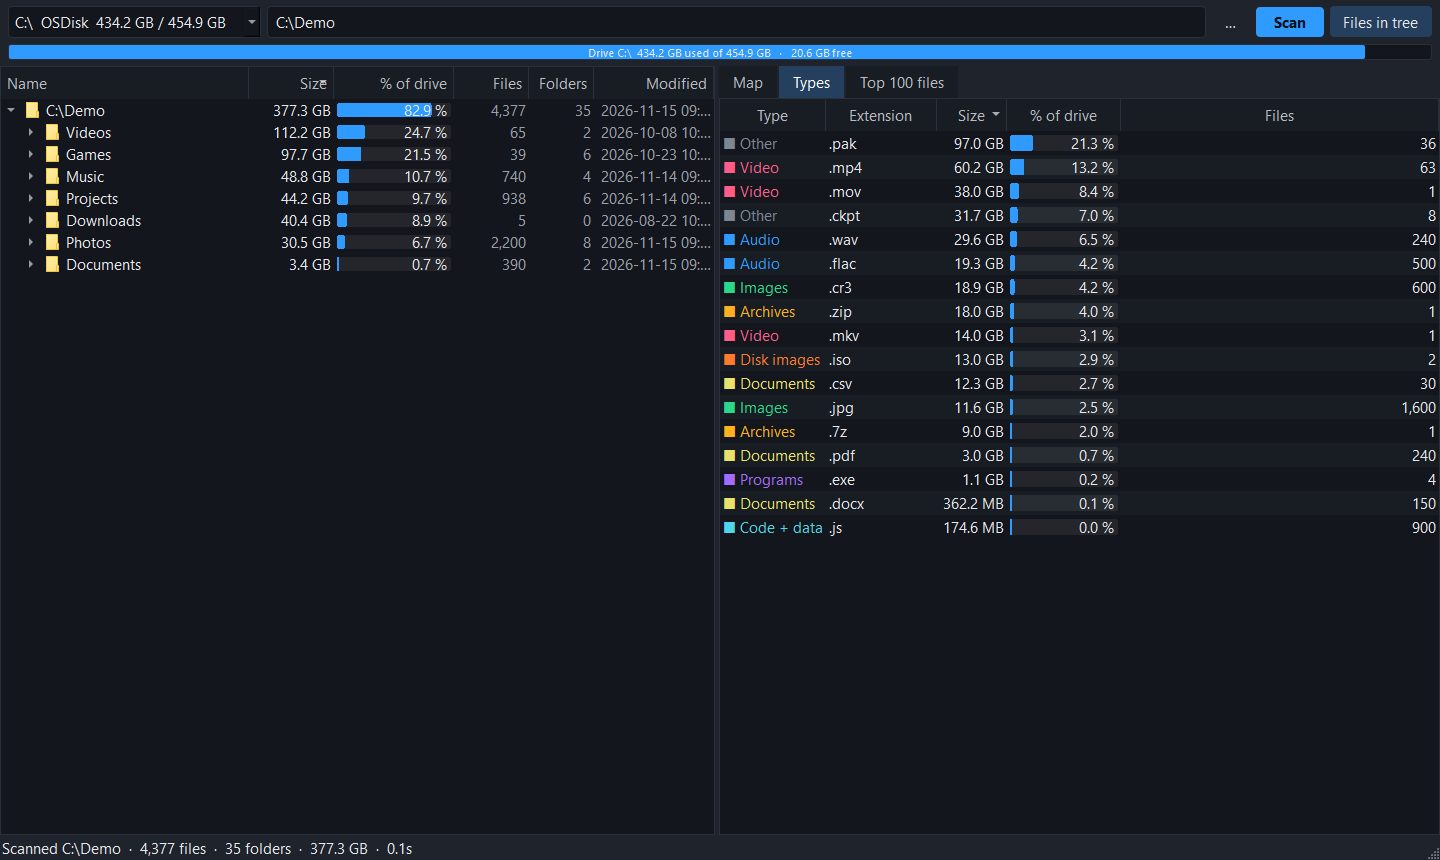
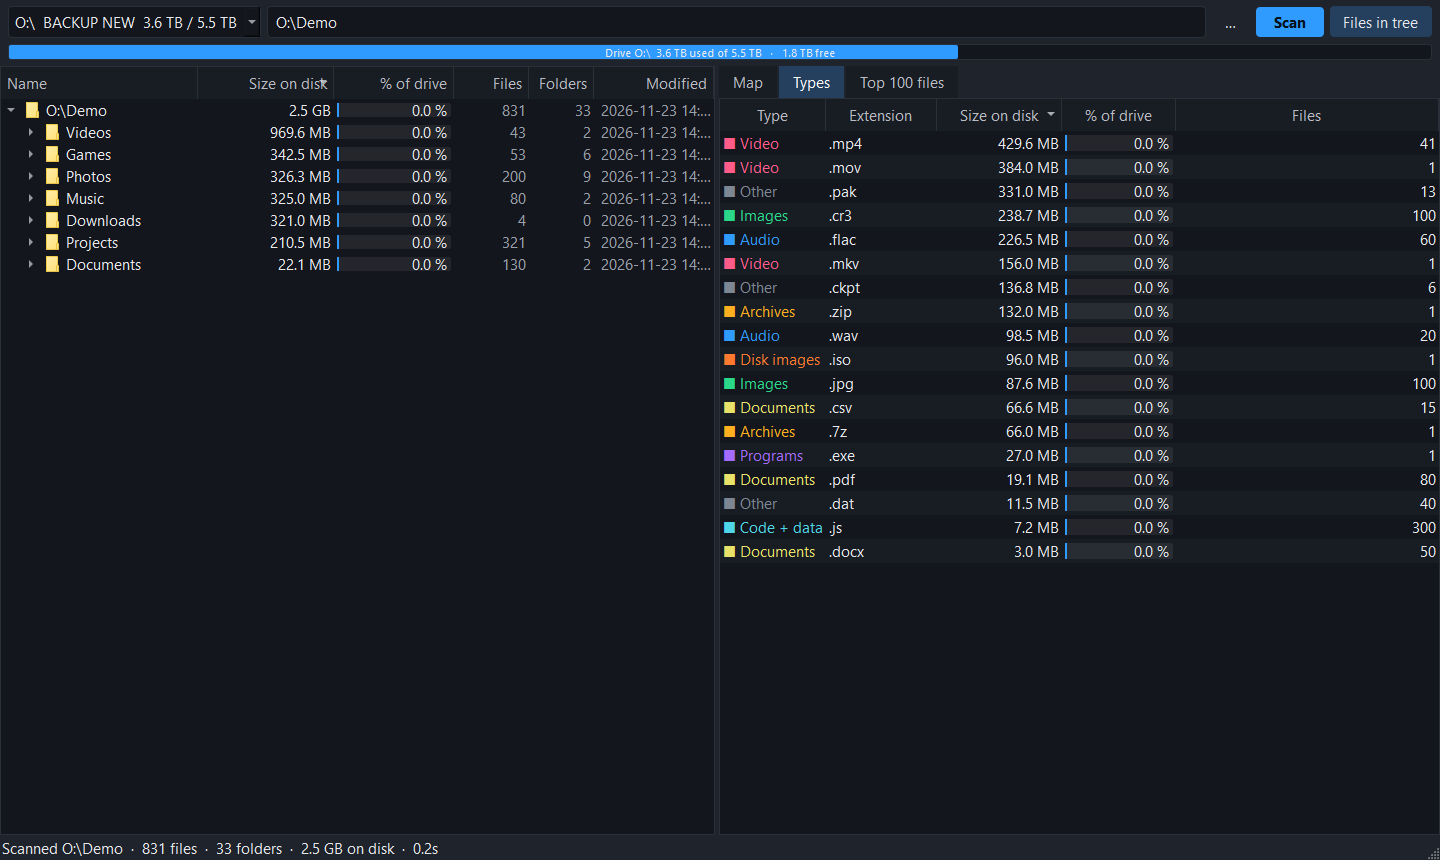
README screenshots of real files; the README explains size on disk
The old screenshots were of a folder of 4,377 sparse placeholder files that
take nothing on disk but showed 377 GB, which only worked because Bigfoot
added up lengths. They are retaken of a folder of 831 real files (2.5 GB), each
taking exactly the size shown.

- tools/make_demo.py builds that folder (random bytes, real sizes, no sparse
  files); tools/screenshots.py takes the three screenshots without showing a
  window, with settings in a temporary .ini.
- README: a section on what size on disk means (sparse, compressed, cloud
  placeholders, hard links) and why the Recycle Bin check still goes by
  length; the "Later" item for hard links and allocated size is done.

diff --git a/tools/make_demo.py b/tools/make_demo.py
@@ -1,0 +1,95 @@
+"""Builds the demo folder the README screenshots are taken of.
+
+Every file is real: it holds random bytes and takes exactly the size Bigfoot shows for it. Nothing is sparse and
+nothing is a placeholder, so the screenshots claim nothing the files don't take. The folder holds about 2.4 GB at
+the default scale (0.6); --scale 1 makes about 4 GB. Needs that much free space on the drive.
+
+    python tools\\make_demo.py D:\\BigfootDemo            build it
+    python tools\\make_demo.py D:\\BigfootDemo --scale 1  bigger
+"""
+import argparse
+import os
+import random
+import time
+
+MB = 1 << 20
+
+# folder -> {subfolder or file name: size in MB, or a dict, or (count, MB each, name pattern)}
+LAYOUT = {
+    "Videos": {
+        "Project reel 4K.mov": 640, "Drone footage Iceland.mp4": 360, "Concert multicam.mkv": 260,
+        "Family 2024.mp4": 120,
+        "Phone clips": (36, 5, "clip_{:03d}.mp4"),
+        "Screen recordings": {"tutorial_final.mp4": 24, "bug_report.mp4": 18, "standup.mp4": 14},
+    },
+    "Games": {
+        "Open World RPG": {"data": (8, 48, "pak{:02d}.pak")},
+        "Racing Sim": {"data": (5, 36, "track{:02d}.pak")},
+        "Indie Platformer": {"levels": (40, 0.5, "level{:02d}.dat")},
+    },
+    "Music": {
+        "Library": (60, 6, "track_{:03d}.flac"),
+        "Album sessions": (20, 8, "take_{:02d}.wav"),
+    },
+    "Photos": {
+        "2022": {"RAW": (25, 4, "IMG_{:04d}.cr3")}, "2023": {"RAW": (25, 4, "IMG_{:04d}.cr3")},
+        "2024": {"RAW": (25, 4, "IMG_{:04d}.cr3")}, "2025": {"RAW": (25, 4, "IMG_{:04d}.cr3")},
+        "Exports": (100, 1.5, "export_{:03d}.jpg"),
+    },
+    "Projects": {
+        "ml-model": {"checkpoints": (6, 40, "epoch_{:04d}.ckpt"), "data": (15, 8, "shard_{:02d}.csv")},
+        "website": {"src": (300, 0.04, "module_{:03d}.js")},
+    },
+    "Downloads": {
+        "old-backup.zip": 220, "dataset.7z": 110, "ubuntu-24.04.iso": 160, "installer.exe": 45,
+    },
+    "Documents": {
+        "Taxes": (80, 0.4, "scan_{:04d}.pdf"), "Letters": (50, 0.1, "letter_{:03d}.docx"),
+    },
+}
+
+
+def write_random(path, size, rnd):
+    os.makedirs(os.path.dirname(path), exist_ok=True)
+    left = size
+    with open(path, "wb") as f:
+        while left > 0:
+            n = min(4 * MB, left)
+            f.write(os.urandom(n))
+            left -= n
+    t = time.time() - rnd.randint(30, 900) * 86400  # spread the dates over a couple of years
+    os.utime(path, (t, t))
+
+
+def build(folder, spec, scale, rnd):
+    total = 0
+    for name, v in spec.items():
+        p = os.path.join(folder, name)
+        if isinstance(v, dict):
+            total += build(p, v, scale, rnd)
+        elif isinstance(v, tuple):
+            count, mb, pattern = v
+            for i in range(count):
+                size = max(1024, int(mb * MB * scale * rnd.uniform(0.7, 1.3)))
+                write_random(os.path.join(p, pattern.format(i)), size, rnd)
+                total += size
+        else:
+            size = max(1024, int(v * MB * scale))
+            write_random(p, size, rnd)
+            total += size
+    return total
+
+
+def main():
+    ap = argparse.ArgumentParser(description=__doc__, formatter_class=argparse.RawDescriptionHelpFormatter)
+    ap.add_argument("folder", help="where to build it (must not exist yet)")
+    ap.add_argument("--scale", type=float, default=0.6)
+    a = ap.parse_args()
+    if os.path.exists(a.folder):
+        raise SystemExit(f"{a.folder} already exists: choose a new folder")
+    total = build(a.folder, LAYOUT, a.scale, random.Random(7))
+    print(f"{a.folder}: {total / MB:,.0f} MB in real files")
+
+
+if __name__ == "__main__":
+    main()

diff --git a/tools/screenshots.py b/tools/screenshots.py
@@ -1,0 +1,61 @@
+"""Takes the README screenshots (docs\\map.png, types.png, top.png) of a folder made by tools\\make_demo.py.
+
+No window appears on screen (Qt lays it out and paints it without showing it) and the mouse and keyboard aren't
+used. Bigfoot's settings go to a temporary .ini file, never the registry.
+
+    python tools\\screenshots.py D:\\BigfootDemo
+"""
+import os
+import sys
+import tempfile
+import time
+
+ROOT = os.path.abspath(os.path.join(os.path.dirname(__file__), ".."))
+sys.path.insert(0, ROOT)
+
+from PySide6.QtCore import QSettings, Qt  # noqa: E402
+from PySide6.QtWidgets import QApplication  # noqa: E402
+
+import bigfoot as bf  # noqa: E402
+
+
+def pump(app, seconds):
+    end = time.time() + seconds
+    while time.time() < end:
+        app.processEvents()
+        time.sleep(0.01)
+
+
+def main():
+    if len(sys.argv) != 2 or not os.path.isdir(sys.argv[1]):
+        raise SystemExit(__doc__)
+    demo = os.path.abspath(sys.argv[1])
+    ini = os.path.join(tempfile.mkdtemp(prefix="bigfoot-shots-"), "bigfoot.ini")
+    bf.QSettings = lambda *a, **k: QSettings(ini, QSettings.IniFormat)
+    app = QApplication([])
+    app.setApplicationName(bf.APP)
+    bf.apply_theme(app)
+    w = bf.Window()
+    w.setAttribute(Qt.WA_DontShowOnScreen, True)
+    w.resize(1440, 860)
+    w.show()
+    w.path.setText(demo)
+    w.scan()
+    for _ in range(600):
+        pump(app, 0.1)
+        if w.scanner.t1 and w.status.text().startswith("Scanned"):
+            break
+    else:
+        raise SystemExit("the scan didn't finish")
+    pump(app, 0.5)
+    out = os.path.join(ROOT, "docs")
+    for tab, name in ((0, "map"), (1, "types"), (2, "top")):
+        w.tabs.setCurrentIndex(tab)
+        pump(app, 0.4)
+        w.grab().save(os.path.join(out, f"{name}.png"))
+        print("wrote", os.path.join(out, f"{name}.png"))
+    print(w.status.text())
+
+
+if __name__ == "__main__":
+    main()

diff --git a/README.md b/README.md
@@ -31,7 +31,7 @@ The app isn't code-signed yet, so Windows may show "Windows protected your PC": 
 
 ## What it does
 - **Fast scan** of any drive, folder or network share: multi-threaded, live progress, and the tree fills in while it scans
-- **Biggest-first tree:** size, % of drive bar, files, folders, newest modified date. Click any column to sort.
+- **Biggest-first tree:** size on disk, % of drive bar, files, folders, newest modified date. Click any column to sort.
 - **Map:** a squarified treemap of the selected folder, colored by file type. Click to find it in the tree, double-click a folder to zoom in, right-click or Up to zoom out.
 - **Types:** space by extension and category (video, audio, images, archives, disk images, programs, documents, code)
 - **Top 100 files** under the selected folder
@@ -47,6 +47,15 @@ The app isn't code-signed yet, so Windows may show "Windows protected your PC": 
 | Backspace (on map) | Zoom out |
 
 Folders Windows won't let you read are counted as "access denied" in the status bar; run as administrator to include them.
+
+## Sizes are what the files take on disk
+Bigfoot ranks and totals the space a file occupies on the drive, not its length, so a folder's size is what you get back by deleting it and a drive's total never goes past what Windows says is used:
+- **Sparse files** (VM disks, databases, test placeholders) count what they hold. A 400 GB sparse file that holds nothing counts 0.
+- **Compressed files** (NTFS compression, Windows "compact OS") count their compressed size.
+- **Cloud placeholders** (OneDrive "online-only" files) count 0 and are never opened, so a scan can't make them download.
+- **Hard links** (the same file under several names, as in WinSxS) count once. The first name by path takes the size; the other names are listed with 0.
+
+The columns say "Size on disk". The one place Bigfoot goes by a file's length is the Recycle Bin check below, because that is what Windows compares with the bin's size. Telling hard links apart takes one attribute lookup per file (never a read), which costs some scan time on a drive with millions of files.
 
 ## The part worth reading: delete means recycle
 A disk cleaner's worst bug is deleting something for good. Qt's `QFile.moveToTrash` (like the shell call underneath it) will quietly delete a file permanently and still report success when the Recycle Bin can't take it. Bigfoot checks before it sends anything, and refuses with a reason instead:
@@ -75,7 +84,7 @@ python -m venv .venv
 winget install JRSoftware.InnoSetup   # installer compiler
 .\build.ps1   # -> dist\BigfootSetup-<ver>.exe, dist\Bigfoot-<ver>-portable-win64.zip
 ```
-`Bigfoot.bat` runs it from source. `tests\sandbox\run-tests.ps1` runs the full suite in a fresh Windows Sandbox.
+`Bigfoot.bat` runs it from source. `tests\sandbox\run-tests.ps1` runs the full suite in a fresh Windows Sandbox. The screenshots above are of a folder of real files (about 2.5 GB, each taking exactly what Bigfoot shows): `tools\make_demo.py <folder>` builds it and `tools\screenshots.py <folder>` takes them.
 Settings live in the registry (`HKCU\Software\Bigfoot`); `error.log` is in `%LOCALAPPDATA%\Bigfoot\`.
 
 ## How it was built
@@ -86,5 +95,4 @@ Python and PySide6 (Qt 6), one 1,400-line file. Built with [Claude Code](https:/
 
 ## Later
 - NTFS master file table reader (whole-drive scans in seconds, needs admin)
-- Hard-link de-duplication (WinSxS), allocated size on disk
 - Mac version
